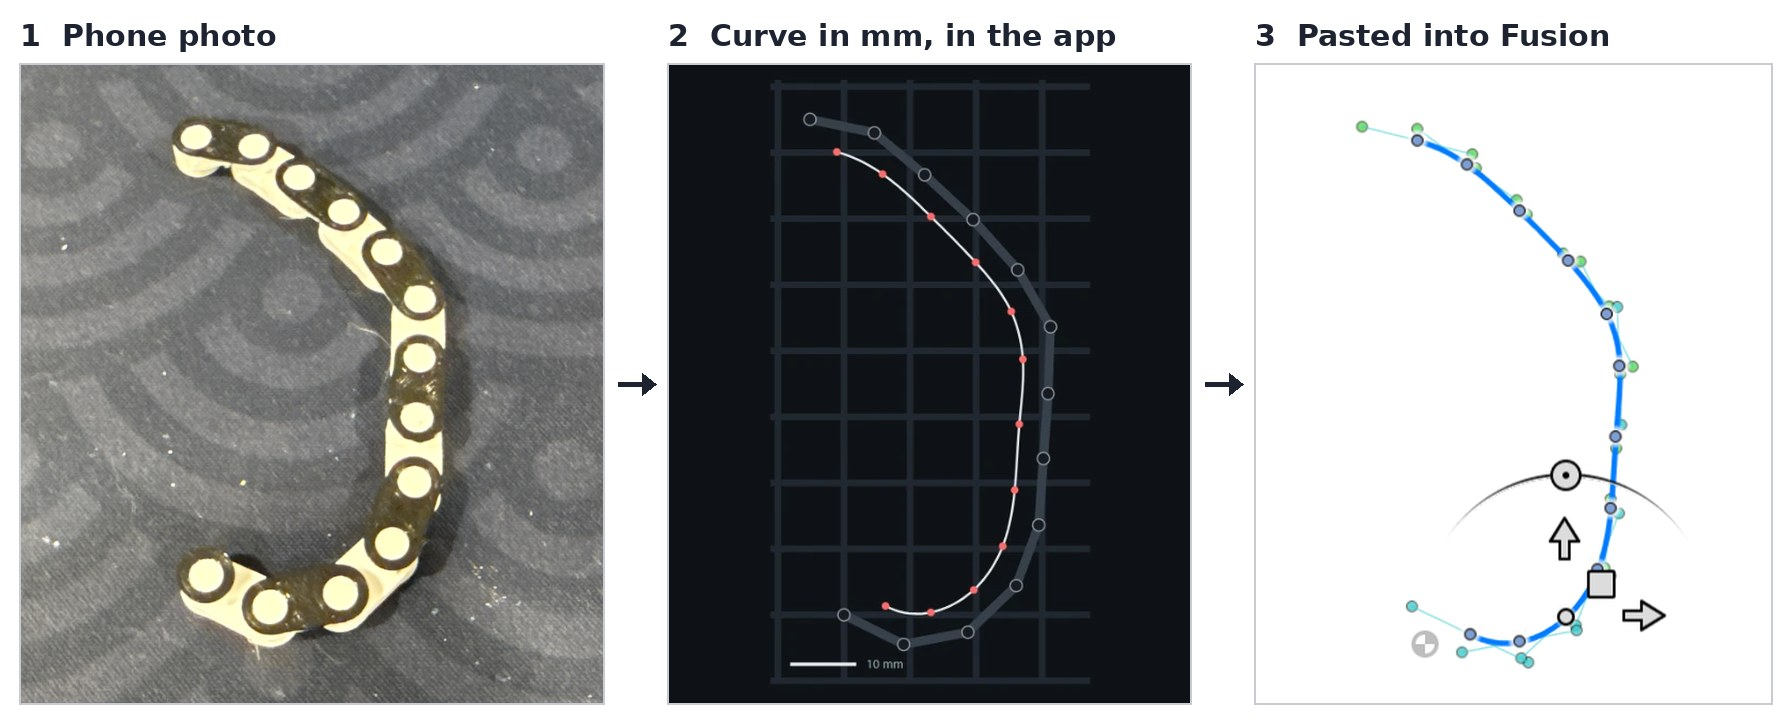
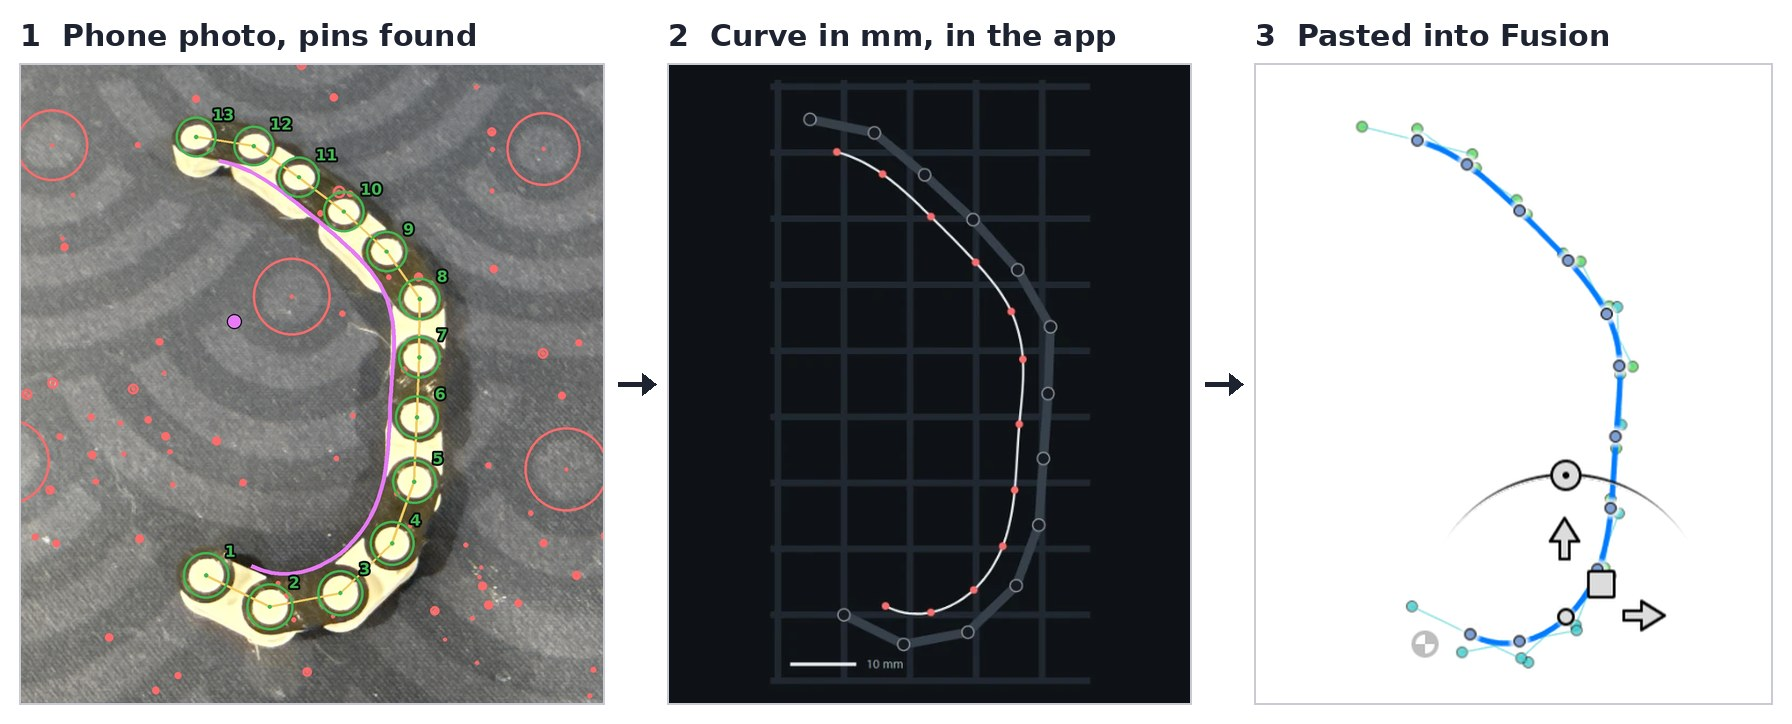
README hero: show the detection overlay on the phone photo
The first panel now carries the app's pin overlay (pins in order,
ignored look-alikes, contact edge, picked side), drawn from the
pipeline's own measurement of the original photo, which reproduces
the app's numbers (24.5 deg tilt, 0.122 / 0.213 mm link residuals).

Claude-Session: https://claude.ai/code/session_01G43foaPVWNS2hZuPKsbKMy

diff --git a/README.md b/README.md
@@ -7,8 +7,8 @@
 
 > Hardware design, direction and testing by me; the software was written with Opus 5.5 in [Claude Code](https://claude.com/claude-code). [How it was built](#how-it-was-built).
 
-![A phone photo of the printed chain, the curve the app measured from it in millimetres, and the same curve pasted into a Fusion sketch](docs/img/hero.jpg)
-<sub>The printed chain on a mousepad, photographed with an iPhone at a 24.5° tilt; the curve the app measured from it; the same curve in a Fusion sketch after Copy points → Paste points. More on this photo [below](#results-so-far).</sub>
+![A phone photo of the printed chain with the pins the software found, the curve the app measured from it in millimetres, and the same curve pasted into a Fusion sketch](docs/img/hero.jpg)
+<sub>The printed chain on a mousepad, photographed with an iPhone at a 24.5° tilt, with the app's overlay: the 13 pins in order (green), dots in the mousepad pattern it ignored (red) and the edge that touched the object (pink). Then the curve the app measured from it; the same curve in a Fusion sketch after Copy points → Paste points. More on this photo [below](#results-so-far).</sub>
 
 ## The problem
 
